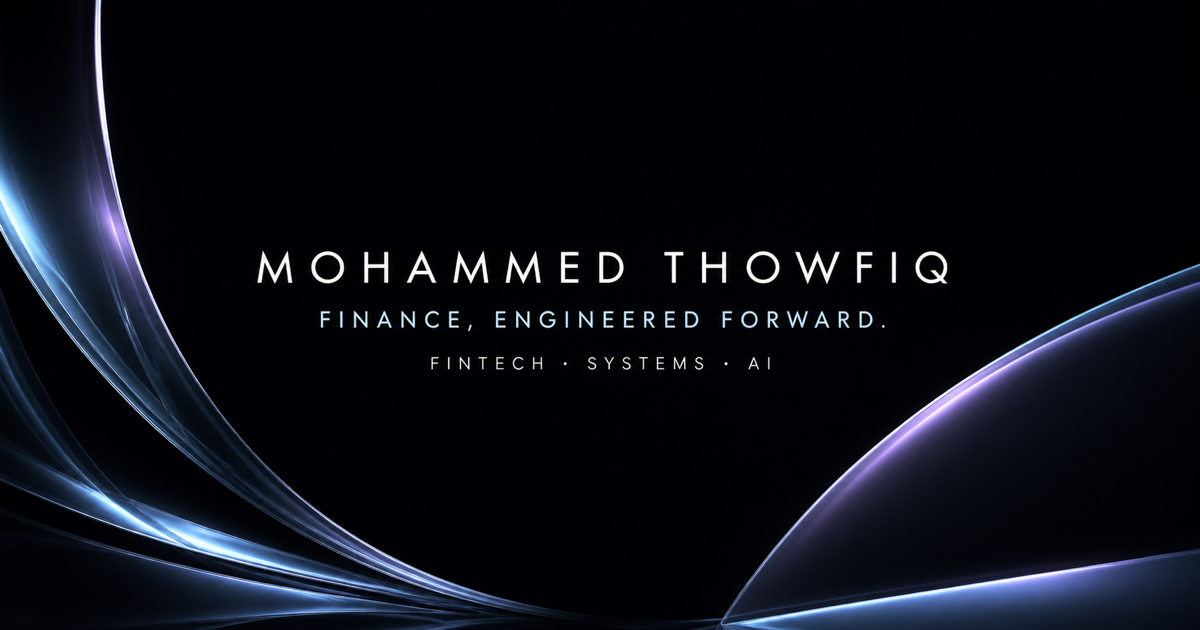
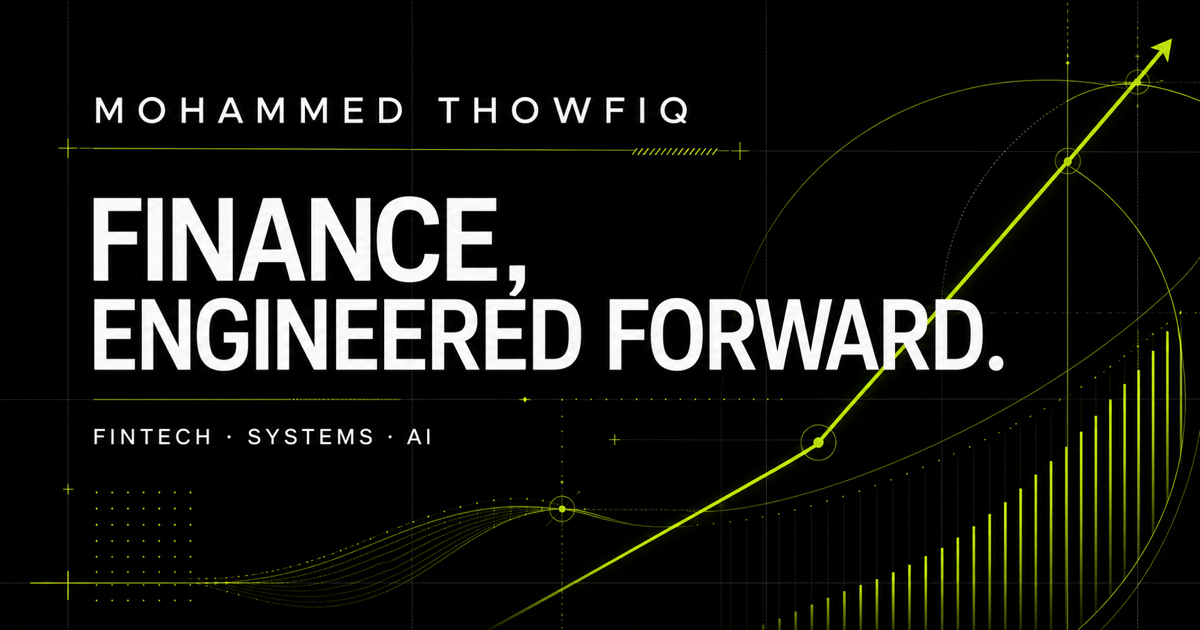
Restore green portfolio accent

diff --git a/styles.css b/styles.css
@@ -1,11 +1,11 @@
-:root{--black:#050607;--ink:#101114;--paper:#f5f5f7;--lime:#b9dcff;--blue:#5b7cff;--orange:#ff9b73;--violet:#bca0ff;--line:rgba(255,255,255,.16);--mono:"DM Mono",monospace;--sans:"Manrope",sans-serif}*{box-sizing:border-box}html{scroll-behavior:smooth}body{margin:0;background:var(--black);color:#fff;font-family:var(--sans);overflow-x:hidden}a{color:inherit;text-decoration:none}img{display:block;max-width:100%}.mono{font-family:var(--mono)}.skip{position:fixed;z-index:200;top:10px;left:10px;transform:translateY(-150%);padding:10px 15px;background:var(--lime);color:#000}.skip:focus{transform:none}.cursor-glow{position:fixed;z-index:1;width:420px;height:420px;border-radius:50%;background:radial-gradient(circle,rgba(217,255,67,.08),transparent 68%);pointer-events:none;transform:translate(-50%,-50%)}
+:root{--black:#050607;--ink:#101114;--paper:#f5f5f7;--lime:#d9ff43;--blue:#5b7cff;--orange:#ff9b73;--violet:#bca0ff;--line:rgba(255,255,255,.16);--mono:"DM Mono",monospace;--sans:"Manrope",sans-serif}*{box-sizing:border-box}html{scroll-behavior:smooth}body{margin:0;background:var(--black);color:#fff;font-family:var(--sans);overflow-x:hidden}a{color:inherit;text-decoration:none}img{display:block;max-width:100%}.mono{font-family:var(--mono)}.skip{position:fixed;z-index:200;top:10px;left:10px;transform:translateY(-150%);padding:10px 15px;background:var(--lime);color:#000}.skip:focus{transform:none}.cursor-glow{position:fixed;z-index:1;width:420px;height:420px;border-radius:50%;background:radial-gradient(circle,rgba(217,255,67,.08),transparent 68%);pointer-events:none;transform:translate(-50%,-50%)}
 header{position:fixed;z-index:100;inset:0 0 auto;height:78px;padding:0 3.2vw;display:grid;grid-template-columns:1fr auto 1fr;align-items:center;background:rgba(5,5,5,.68);backdrop-filter:blur(18px);border-bottom:1px solid var(--line);transition:.25s}.wordmark{display:flex;flex-direction:column;font-size:13px;font-weight:800;line-height:1.05;letter-spacing:-.02em}header nav{display:flex;gap:34px;font:500 11px var(--mono);letter-spacing:.08em;text-transform:uppercase}header nav a{position:relative}header nav a:after{content:"";position:absolute;left:0;right:100%;bottom:-6px;height:1px;background:var(--lime);transition:.25s}header nav a:hover:after{right:0}.header-cta{justify-self:end;display:flex;align-items:center;gap:8px;font:500 11px var(--mono);text-transform:uppercase}.header-cta i{width:7px;height:7px;border-radius:50%;background:var(--lime);box-shadow:0 0 0 5px rgba(217,255,67,.1)}.menu{display:none}
-.hero{position:relative;min-height:100svh;padding:118px 3.2vw 32px;display:grid;grid-template-columns:7fr 3fr;grid-template-rows:auto 1fr auto;overflow:hidden}.hero-grid{position:absolute;inset:0;background-image:linear-gradient(rgba(255,255,255,.048) 1px,transparent 1px),linear-gradient(90deg,rgba(255,255,255,.048) 1px,transparent 1px);background-size:6.25vw 6.25vw;mask-image:linear-gradient(to bottom,#000,transparent 95%)}.hero-index{position:absolute;top:105px;right:3.2vw;color:#777;font-size:10px}.hero-title{position:relative;z-index:3;grid-column:1/-1;align-self:center}.kicker,.overline{font:500 11px var(--mono);letter-spacing:.12em;text-transform:uppercase}.kicker{display:flex;align-items:center;gap:10px;color:#a9a9a9}.kicker span{width:34px;height:1px;background:var(--lime)}h1{position:relative;z-index:2;margin:20px 0 0;font-size:clamp(62px,10.4vw,160px);font-weight:700;line-height:.77;letter-spacing:-.083em;text-transform:uppercase}h1>span{display:block}h1>span:nth-child(2){margin-left:8vw}.outline{color:transparent;-webkit-text-stroke:1.5px rgba(255,255,255,.82)}.hero-photo{position:absolute;z-index:2;right:5.5vw;top:17%;width:min(31vw,470px)}.photo-frame{position:relative;aspect-ratio:.78;overflow:hidden;border:1px solid rgba(255,255,255,.25);border-radius:240px 240px 8px 8px;background:#ddd}.photo-frame:after{content:"";position:absolute;inset:0;background:linear-gradient(to top,rgba(5,5,5,.24),transparent 40%);mix-blend-mode:multiply}.photo-frame img{width:100%;height:100%;object-fit:cover;object-position:50% 34%;filter:saturate(.82) contrast(1.05)}.photo-stamp{position:absolute;right:-40px;bottom:26px;width:108px;height:108px;padding:18px;display:flex;flex-direction:column;justify-content:center;border-radius:50%;background:var(--lime);color:#000;transform:rotate(8deg)}.photo-stamp span{font:500 8px var(--mono)}.photo-stamp strong{font-size:20px;line-height:1}.photo-stamp small{margin-top:5px;font:500 7px var(--mono)}.hero-summary{position:relative;z-index:4;grid-column:1;align-self:end;width:min(460px,35vw)}.hero-summary>p{margin:0;color:#b4b4b4;font-size:16px;line-height:1.65}.hero-summary>div{display:flex;gap:10px;margin-top:22px}.hero-summary a{min-width:176px;padding:13px 16px;display:flex;justify-content:space-between;border:1px solid var(--line);font:500 10px var(--mono);text-transform:uppercase}.hero-summary a:first-child{background:var(--lime);color:#000;border-color:var(--lime)}.scroll-cue{position:absolute;right:3.2vw;bottom:35px;display:flex;gap:35px;color:#8a8a8a;font-size:9px;transform:rotate(-90deg);transform-origin:right bottom}.signal-strip{overflow:hidden;padding:16px 0;background:linear-gradient(90deg,#d8ecff,#b9dcff 45%,#d7d2ff);color:#101114}.signal-strip>div{width:max-content;display:flex;align-items:center;gap:26px;animation:marquee 28s linear infinite;font-size:13px;font-weight:800;letter-spacing:.04em}.signal-strip i{font-style:normal}@keyframes marquee{to{transform:translateX(-50%)}}
+.hero{position:relative;min-height:100svh;padding:118px 3.2vw 32px;display:grid;grid-template-columns:7fr 3fr;grid-template-rows:auto 1fr auto;overflow:hidden}.hero-grid{position:absolute;inset:0;background-image:linear-gradient(rgba(255,255,255,.048) 1px,transparent 1px),linear-gradient(90deg,rgba(255,255,255,.048) 1px,transparent 1px);background-size:6.25vw 6.25vw;mask-image:linear-gradient(to bottom,#000,transparent 95%)}.hero-index{position:absolute;top:105px;right:3.2vw;color:#777;font-size:10px}.hero-title{position:relative;z-index:3;grid-column:1/-1;align-self:center}.kicker,.overline{font:500 11px var(--mono);letter-spacing:.12em;text-transform:uppercase}.kicker{display:flex;align-items:center;gap:10px;color:#a9a9a9}.kicker span{width:34px;height:1px;background:var(--lime)}h1{position:relative;z-index:2;margin:20px 0 0;font-size:clamp(62px,10.4vw,160px);font-weight:700;line-height:.77;letter-spacing:-.083em;text-transform:uppercase}h1>span{display:block}h1>span:nth-child(2){margin-left:8vw}.outline{color:transparent;-webkit-text-stroke:1.5px rgba(255,255,255,.82)}.hero-photo{position:absolute;z-index:2;right:5.5vw;top:17%;width:min(31vw,470px)}.photo-frame{position:relative;aspect-ratio:.78;overflow:hidden;border:1px solid rgba(255,255,255,.25);border-radius:240px 240px 8px 8px;background:#ddd}.photo-frame:after{content:"";position:absolute;inset:0;background:linear-gradient(to top,rgba(5,5,5,.24),transparent 40%);mix-blend-mode:multiply}.photo-frame img{width:100%;height:100%;object-fit:cover;object-position:50% 34%;filter:saturate(.82) contrast(1.05)}.photo-stamp{position:absolute;right:-40px;bottom:26px;width:108px;height:108px;padding:18px;display:flex;flex-direction:column;justify-content:center;border-radius:50%;background:var(--lime);color:#000;transform:rotate(8deg)}.photo-stamp span{font:500 8px var(--mono)}.photo-stamp strong{font-size:20px;line-height:1}.photo-stamp small{margin-top:5px;font:500 7px var(--mono)}.hero-summary{position:relative;z-index:4;grid-column:1;align-self:end;width:min(460px,35vw)}.hero-summary>p{margin:0;color:#b4b4b4;font-size:16px;line-height:1.65}.hero-summary>div{display:flex;gap:10px;margin-top:22px}.hero-summary a{min-width:176px;padding:13px 16px;display:flex;justify-content:space-between;border:1px solid var(--line);font:500 10px var(--mono);text-transform:uppercase}.hero-summary a:first-child{background:var(--lime);color:#000;border-color:var(--lime)}.scroll-cue{position:absolute;right:3.2vw;bottom:35px;display:flex;gap:35px;color:#8a8a8a;font-size:9px;transform:rotate(-90deg);transform-origin:right bottom}.signal-strip{overflow:hidden;padding:16px 0;background:var(--lime);color:#050505}.signal-strip>div{width:max-content;display:flex;align-items:center;gap:26px;animation:marquee 28s linear infinite;font-size:13px;font-weight:800;letter-spacing:.04em}.signal-strip i{font-style:normal}@keyframes marquee{to{transform:translateX(-50%)}}
 .section{position:relative;padding:135px 4.2vw}.section-code{position:absolute;top:46px;left:4.2vw;color:#777;font-size:10px}.story{background:var(--paper);color:var(--ink);display:grid;grid-template-columns:1.15fr .85fr;gap:7vw}.story-head h2,.credential-head h2,.work-head h2,.lab-head h2,.contact-copy h2{margin:0;font-size:clamp(48px,7vw,105px);font-weight:600;line-height:.92;letter-spacing:-.065em}.story-head h2 em{font-family:Georgia,serif;font-weight:400}.story-body{align-self:end;padding-bottom:9px}.story-body p{color:#5a5a55;line-height:1.7}.story-body .lead{color:#111;font-size:23px;line-height:1.45;letter-spacing:-.02em}.stat-grid{grid-column:1/-1;margin-top:60px;display:grid;grid-template-columns:repeat(3,1fr);border-top:1px solid #bcb8ae;border-bottom:1px solid #bcb8ae}.stat-grid article{padding:30px 30px 28px 0;border-right:1px solid #bcb8ae}.stat-grid article:not(:first-child){padding-left:30px}.stat-grid article:last-child{border:0}.stat-grid span{font-size:9px;color:#777}.stat-grid strong{display:block;margin:20px 0 14px;font-size:72px;line-height:1;letter-spacing:-.07em}.stat-grid p{max-width:240px;margin:0;color:#65625c;font-size:13px}
 .credentials{min-height:1040px;background:radial-gradient(circle at 75% 20%,rgba(91,124,255,.16),transparent 32%),linear-gradient(180deg,#111318,#08090b);color:#fff;overflow:hidden}.credential-head{max-width:850px}.credential-head h2{font-size:clamp(48px,6.8vw,96px)}.credential-intro{max-width:560px;color:#9c9ca3;font-size:15px;line-height:1.7}.credential-wheel{position:relative;min-height:720px;margin-top:55px}.credential{position:absolute;width:410px;min-height:230px;padding:25px;display:grid;grid-template-columns:42px 1fr 44px;border:1px solid rgba(255,255,255,.16);border-radius:28px;background:rgba(31,33,39,.72);backdrop-filter:blur(26px);box-shadow:0 35px 80px rgba(0,0,0,.35);transition:transform .35s,background .35s}.credential:hover{z-index:10!important;transform:translateY(-12px) rotate(0)!important;background:rgba(43,46,54,.9)}.credential>span{font:500 10px var(--mono);color:#777}.credential small{font:500 9px var(--mono);color:#999}.credential h3{margin:35px 0 0;font-size:50px;line-height:1;letter-spacing:-.05em}.credential p{margin:9px 0 0;color:#a9a9a9;font-size:12px}.credential>b{align-self:end;justify-self:end;writing-mode:vertical-rl;font:500 10px var(--mono);letter-spacing:.12em}.c1{left:1%;top:70px;transform:rotate(-5deg);border-top:3px solid var(--lime)}.c2{left:22%;top:250px;transform:rotate(3deg);border-top:3px solid var(--blue)}.c3{left:43%;top:35px;transform:rotate(-2deg);border-top:3px solid var(--orange)}.c4{right:3%;top:210px;transform:rotate(5deg);border-top:3px solid var(--violet)}.c5{left:34%;top:475px;transform:rotate(-1deg);border-top:3px solid #fff}
 .work{background:linear-gradient(180deg,#f5f5f7,#fff);color:#111}.work-head{margin-bottom:75px}.work-head span{font-family:Georgia,serif;font-style:italic;font-weight:400}.work-list{display:grid;gap:18px}.work-card{display:grid;grid-template-columns:70px 1fr 260px;gap:35px;padding:46px;border:1px solid rgba(0,0,0,.08);border-radius:32px;background:rgba(255,255,255,.86);box-shadow:0 18px 55px rgba(25,28,34,.06);transition:.35s}.work-card:hover{transform:translateY(-6px);box-shadow:0 28px 80px rgba(25,28,34,.1)}.work-num{font-size:10px}.work-tags{display:flex;gap:7px}.work-tags span{padding:6px 9px;border:1px solid #aaa69d;font:500 8px var(--mono)}.work-main h3{max-width:800px;margin:22px 0 14px;font-size:clamp(31px,4.2vw,64px);line-height:.98;letter-spacing:-.055em}.work-main p{max-width:680px;margin:0;color:#625f59;font-size:14px;line-height:1.65}.work-side{display:flex;flex-direction:column;justify-content:space-between;align-items:flex-end;padding:20px;border:1px solid rgba(0,0,0,.1);border-radius:22px}.work-side span,.work-side small{font:500 8px var(--mono);text-transform:uppercase}.work-side strong{font-size:36px;letter-spacing:-.05em}[data-accent=lime] .work-side{background:var(--lime)}[data-accent=blue] .work-side{background:var(--blue);color:white}[data-accent=orange] .work-side{background:var(--orange)}
 .lab{background:#080808;overflow:hidden}.lab-orb{position:absolute;top:0;right:-15vw;width:55vw;height:55vw;border-radius:50%;background:radial-gradient(circle at 35% 35%,rgba(92,124,255,.4),rgba(175,123,255,.1) 35%,transparent 68%);filter:blur(10px)}.lab-head{position:relative;z-index:2;max-width:1040px}.lab-head h2{font-size:clamp(45px,6.7vw,98px)}.lab-head>p:last-child{color:#999}.lab-grid{position:relative;z-index:2;margin-top:70px;display:grid;grid-template-columns:1.25fr 1fr 1fr;gap:13px}.lab-card{min-height:500px;padding:28px;display:flex;flex-direction:column;border:1px solid var(--line);border-radius:30px;background:rgba(22,24,29,.76);backdrop-filter:blur(24px);box-shadow:0 24px 70px rgba(0,0,0,.2)}.lab-feature{background:#e9e6dc;color:#111}.lab-top{display:flex;justify-content:space-between}.status{display:flex;align-items:center;gap:8px;font:500 8px var(--mono)}.status i{width:6px;height:6px;border-radius:50%;background:#3ddc84;box-shadow:0 0 0 5px rgba(61,220,132,.1)}.status.amber i{background:var(--orange)}.status.violet i{background:var(--violet)}.lab-top>span:last-child{color:#777;font-size:9px}.agent-map,.mcp-mark,.rag-mark{min-height:170px;margin:50px 0 30px;display:flex;align-items:center;justify-content:center;gap:12px;border:1px solid currentColor}.agent-map span{font:500 8px var(--mono)}.agent-map i{width:38px;height:1px;background:repeating-linear-gradient(90deg,currentColor 0 4px,transparent 4px 8px)}.mcp-mark{font:500 24px var(--mono);color:var(--lime)}.mcp-mark span{color:#fff}.rag-mark{display:grid;grid-template-columns:1fr 30px 1fr;text-align:center;color:var(--violet);font:500 9px var(--mono)}.rag-mark span:last-child{grid-column:2}.lab-card h3{margin:0 0 12px;font-size:27px;line-height:1.05;letter-spacing:-.04em}.lab-card p{margin:0;color:#929292;font-size:13px;line-height:1.65}.lab-feature p{color:#595750}.lab-card ul{display:flex;flex-wrap:wrap;gap:6px;margin:auto 0 0;padding:25px 0 0;list-style:none}.lab-card li{padding:6px 8px;border:1px solid currentColor;font:500 8px var(--mono);text-transform:uppercase;color:#8c8c8c}.lab-feature li{color:#777}
-.contact{background:linear-gradient(135deg,#d9ebfb 0%,#b9dcff 48%,#d8d2ff 100%);color:#050505;min-height:700px}.contact .section-code{color:#464d18}.contact-copy h2{font-size:clamp(50px,7.3vw,110px)}.contact-copy em{font-family:Georgia,serif;font-weight:400}.contact-actions{margin-top:80px;display:grid;grid-template-columns:1fr 350px;gap:45px;align-items:end}.mail{display:grid;grid-template-columns:1fr auto;gap:10px;padding-bottom:22px;border-bottom:2px solid #000}.mail span{grid-column:1/-1;font:500 9px var(--mono)}.mail strong{font-size:clamp(20px,3vw,42px);letter-spacing:-.04em}.mail i{font-style:normal;font-size:32px}.contact-actions>div{display:flex;justify-content:space-between;font:500 10px var(--mono)}footer{padding:25px 4.2vw;background:#050505;color:#777;font:500 9px var(--mono)}footer>div{display:flex;justify-content:space-between}
+.contact{background:var(--lime);color:#050505;min-height:700px}.contact .section-code{color:#464d18}.contact-copy h2{font-size:clamp(50px,7.3vw,110px)}.contact-copy em{font-family:Georgia,serif;font-weight:400}.contact-actions{margin-top:80px;display:grid;grid-template-columns:1fr 350px;gap:45px;align-items:end}.mail{display:grid;grid-template-columns:1fr auto;gap:10px;padding-bottom:22px;border-bottom:2px solid #000}.mail span{grid-column:1/-1;font:500 9px var(--mono)}.mail strong{font-size:clamp(20px,3vw,42px);letter-spacing:-.04em}.mail i{font-style:normal;font-size:32px}.contact-actions>div{display:flex;justify-content:space-between;font:500 10px var(--mono)}footer{padding:25px 4.2vw;background:#050505;color:#777;font:500 9px var(--mono)}footer>div{display:flex;justify-content:space-between}
 .reveal{opacity:0;transform:translateY(25px);transition:opacity .8s ease,transform .8s ease}.reveal.visible{opacity:1;transform:none}
 @media(max-width:1000px){header{grid-template-columns:1fr auto}.header-cta{display:none}header nav{position:fixed;inset:78px 0 auto;padding:30px;display:grid;background:#090909;border-bottom:1px solid var(--line);opacity:0;transform:translateY(-15px);pointer-events:none;transition:.25s}header nav.open{opacity:1;transform:none;pointer-events:auto}.menu{display:block;width:44px;height:44px;border:1px solid var(--line);background:transparent}.menu i{display:block;width:18px;height:1px;margin:5px auto;background:#fff}.hero{grid-template-columns:1fr;padding-top:130px}.hero-photo{position:relative;right:auto;top:auto;grid-row:2;width:min(490px,74vw);margin:30px auto}.hero-title{grid-row:1}.hero-summary{grid-row:3;width:min(600px,100%)}h1>span:nth-child(2){margin-left:0}.scroll-cue{display:none}.story{grid-template-columns:1fr}.story-body{max-width:700px}.credential-wheel{display:grid;grid-template-columns:1fr 1fr;gap:12px;min-height:auto}.credential{position:relative;inset:auto!important;width:auto;transform:none!important}.lab-grid{grid-template-columns:1fr 1fr}.lab-feature{grid-column:1/-1}.contact-actions{grid-template-columns:1fr}.work-card{grid-template-columns:45px 1fr}.work-side{grid-column:2;min-height:150px}}
 @media(max-width:640px){header{padding-inline:18px}.hero{padding:110px 18px 35px}h1{font-size:55px;line-height:.83}.hero-photo{width:88vw}.photo-stamp{right:-8px}.hero-summary>div{display:grid}.hero-summary a{width:100%}.section{padding:105px 20px}.section-code{top:34px;left:20px}.story-head h2,.credential-head h2,.work-head h2,.lab-head h2,.contact-copy h2{font-size:44px}.story-body .lead{font-size:20px}.stat-grid{grid-template-columns:1fr}.stat-grid article,.stat-grid article:not(:first-child){padding:24px 0;border-right:0;border-bottom:1px solid #bcb8ae}.stat-grid article:last-child{border:0}.stat-grid strong{font-size:55px}.credential-wheel,.lab-grid{grid-template-columns:1fr}.credential{min-height:210px}.lab-feature{grid-column:auto}.work-card{grid-template-columns:1fr;gap:22px}.work-num{display:none}.work-side{grid-column:auto}.contact-actions{margin-top:55px}.mail strong{font-size:18px}.contact-actions>div{display:grid;gap:18px}footer>div{display:grid;gap:12px;text-align:center}.cursor-glow{display:none}}
